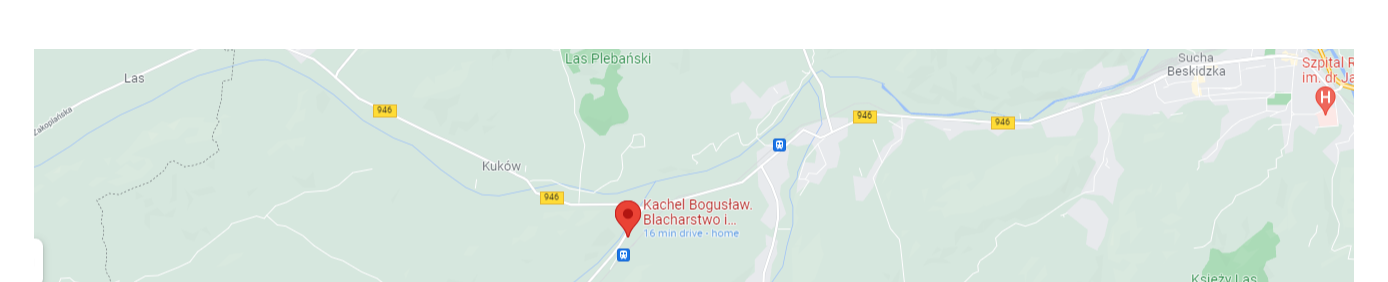
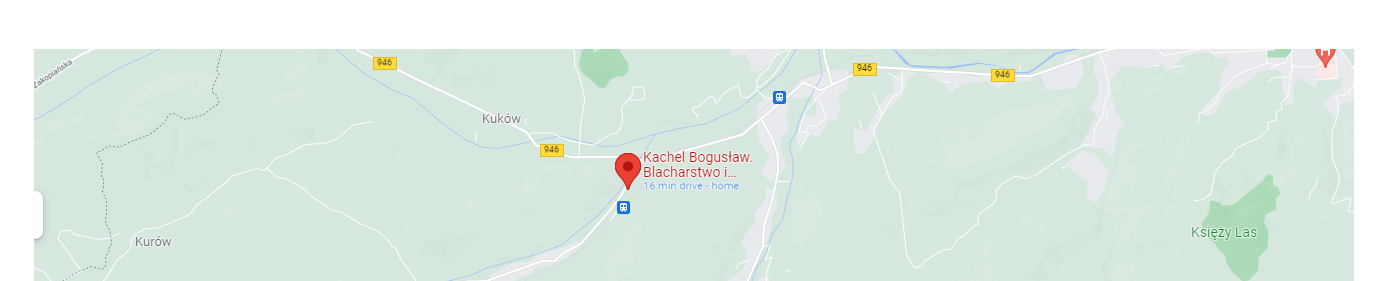
update

diff --git a/index.html b/index.html
@@ -118,7 +118,7 @@
                     </div>
           </div>
         </section>
-        <a href="https://stackoverflow.com/questions/796087/make-a-div-into-a-link" style="display: block;" class="footer-img" alt="..."></a>
+        <a href="https://www.google.com/maps/dir//Kachel+Bogus%C5%82aw.+Blacharstwo+i+mechanika+samochodowa,+34-205+Stryszawa;+20b/data=!4m6!4m5!1m1!4e2!1m2!1m1!1s0x47167fbaea51a74d:0xe1f21fc1faf50eaa?sa=X&ved=2ahUKEwjrvMmQvfrzAhXG-ioKHZ1rCtQQ48ADegQIAhAU" style="display: block;" class="footer-img" alt="..."></a>
     <script src="js/bootstrap.bundle.min.js"></script>
 </body>
 
